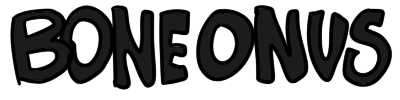
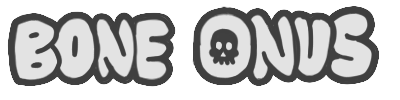
Replaced placeholder art.
Also added a property for the weapon textures to the ForgeManager class.

diff --git a/BoneOnus/ForgeManager.cs b/BoneOnus/ForgeManager.cs
@@ -35,6 +35,7 @@ namespace BoneOnus
         private List<BoneType> currentBones;
         private List<Rectangle> currentBonePos;
 
+        private Texture2D anvil;
         private Texture2D frameImg;
         private List<Rectangle> framePos;
         private List<Texture2D> boneImgs;
@@ -85,14 +86,25 @@ namespace BoneOnus
                 return null;
             }
         }
+        
+        /// <summary>
+        /// Read-only property for the List of Texture2Ds for the 
+        /// weapons, in the order: Sword, Hammer, Scythe, Dagger.
+        /// </summary>
+        public List<Texture2D> WeaponTextures
+        {
+            get { return weaponImgs; }
+        }
 
         // -------------------------- CONSTRUCTOR -----------------------------
-        public ForgeManager(SpriteBatch sb, Texture2D frameImg, List<Texture2D> boneImgs,
-            List<Texture2D> weaponImgs, Texture2D cursor, int width, int height)
+        public ForgeManager(SpriteBatch sb, Texture2D anvil, Texture2D frameImg, 
+            List<Texture2D> boneImgs, List<Texture2D> weaponImgs, Texture2D cursor,
+            int width, int height)
         {
             this.sb = sb;
             this.cursor = cursor;
             this.weaponImgs = weaponImgs;
+            this.anvil = anvil;
 
             // Set up inventory frames
             this.frameImg = frameImg;
@@ -183,6 +195,10 @@ namespace BoneOnus
 
         public void Draw(MouseState mState)
         {
+            // Draw background
+            sb.Draw(anvil, Vector2.Zero, Color.White);
+
+            // Draw current bones
             for(int i = 0; i < currentBones.Count; i++)
             {
                 // Get texture by parsing bone enum to integer,

diff --git a/BoneOnus/Game1.cs b/BoneOnus/Game1.cs
@@ -105,6 +105,7 @@ namespace BoneOnus
 
             forge = new ForgeManager(
                 _spriteBatch,
+                Content.Load<Texture2D>("anvil"),
                 Content.Load<Texture2D>("forge_frame"),
                 new List<Texture2D>
                 {
